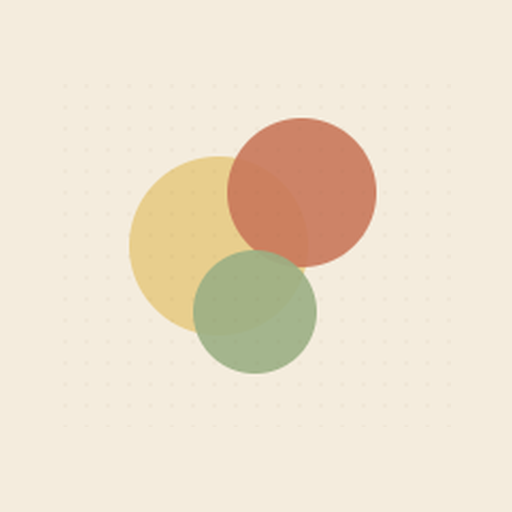
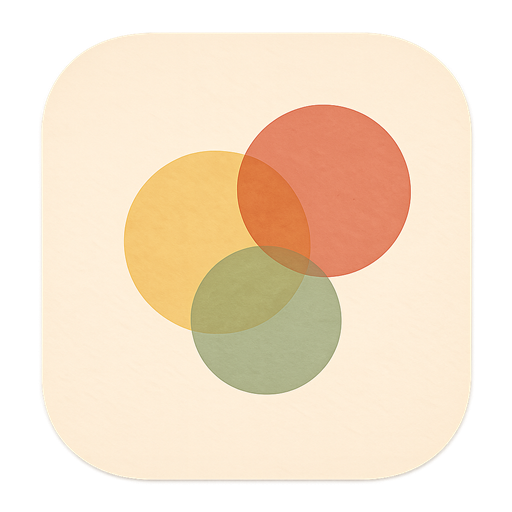
feat: nuevo ícono y selector de tamaño de texto autodemostrativo
- Ícono actualizado: tres círculos superpuestos (dorado, terracota, verde
  salvia) con mix-blend-mode multiply, en fondo crema. Aplicado a
  favicon.svg, pwa-512.png, pwa-192.png y apple-touch-icon.png.

- Selector "Tamaño del texto" en Ajustes: cada opción se renderiza en el
  tamaño que representa — Normal en 13px, Grande en 16px, Más grande en
  19px — para que el usuario vea la diferencia antes de elegir.

Claude-Session: https://claude.ai/code/session_016hgskBMKbEKZpXRsxceCwu

diff --git a/src/screens/SettingsScreen.tsx b/src/screens/SettingsScreen.tsx
@@ -188,13 +188,35 @@ export function SettingsScreen() {
           </div>
         </div>
 
-        <Segmented
-          label="Tamaño del texto"
-          options={TEXT_SCALE_IDS}
-          value={prefs.textScale}
-          onChange={prefs.setTextScale}
-          renderLabel={(id) => TEXT_SCALE_LABEL[id]}
-        />
+        <div>
+          <div className="mb-2 text-[14px] font-bold text-ink-soft">Tamaño del texto</div>
+          <div
+            role="radiogroup"
+            aria-label="Tamaño del texto"
+            className="flex items-center gap-2 rounded-2xl bg-surface p-1.5"
+          >
+            {TEXT_SCALE_IDS.map((id) => {
+              const active = id === prefs.textScale
+              const px = ({ normal: 13, grande: 16, 'mas-grande': 19 } as const)[id]
+              return (
+                <button
+                  key={id}
+                  role="radio"
+                  aria-checked={active}
+                  onClick={() => prefs.setTextScale(id)}
+                  style={{ fontSize: px }}
+                  className={`flex-1 rounded-xl px-2 py-2.5 font-bold transition-colors ${
+                    active
+                      ? 'bg-calmo text-calmo-ink shadow-card'
+                      : 'bg-transparent text-ink-soft'
+                  }`}
+                >
+                  {TEXT_SCALE_LABEL[id]}
+                </button>
+              )
+            })}
+          </div>
+        </div>
 
         {/* Tres toggles de audio separados */}
         {(